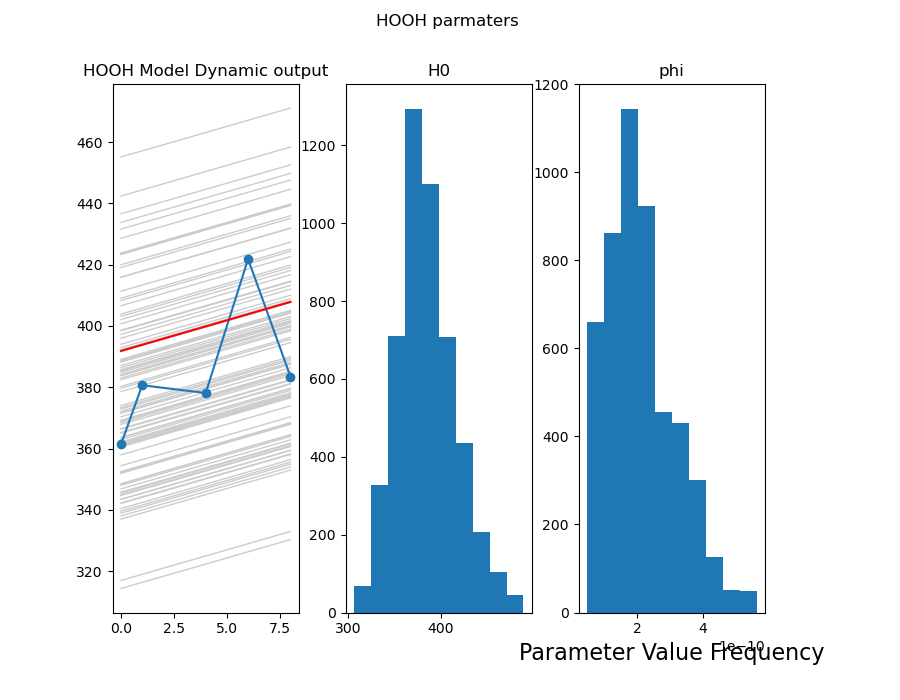
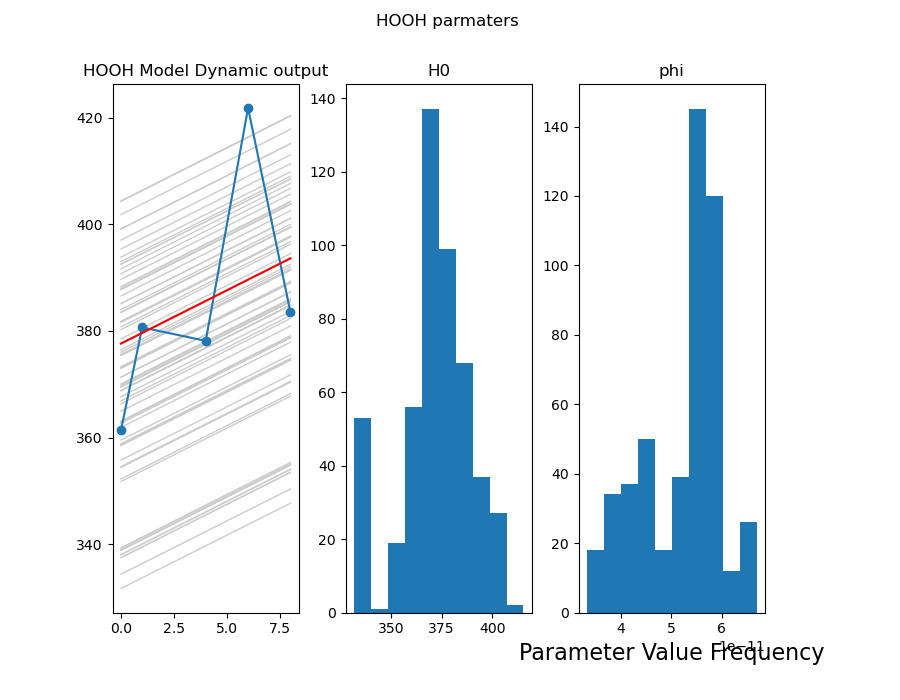
inits

diff --git a/src/model_spiked_pro_batch.py b/src/model_spiked_pro_batch.py
@@ -57,7 +57,7 @@ df['stdlog2'] = df[['log2', 'log4']].std(axis=1)
 df['log_sigma'] = df[['log1','log2', 'log3','log4']].std(axis=1)
 
 df['log_sigma'] = 0.2
-
+df.loc[df['organism'] == 'H', 'log_sigma'] = 0.1
 
 #setting working df for model as far as abundance and log abundance values 
 #df.rename(columns = {'avg1':'abundance'}, inplace = True) #reaneme main df column to be fit by odelib 
@@ -119,7 +119,7 @@ plt.legend()
 inits4 = pd.read_csv("../data/inits/pro9215_inits4.csv")
 
 #setting how many MCMC chains you will run 
-nits = 10000 # nits - INCREASE FOR MORE BELL CURVEY LOOKING HISTS of params
+nits = 1000 # nits - INCREASE FOR MORE BELL CURVEY LOOKING HISTS of params
 
 # state variable names
 snames = ['P','N','H'] #order must match all further model mentions (same fro params) 
@@ -161,7 +161,7 @@ def get_model(df):
                           P0 = P0_prior.copy(),
                           N0  = N0_prior.copy(),
                           H0  = H0_prior.copy(),
-                          t_steps=10000,
+                          t_steps=1000,
                           P = P0_mean,
                           N = N0_mean,
                           H = H0_mean,
